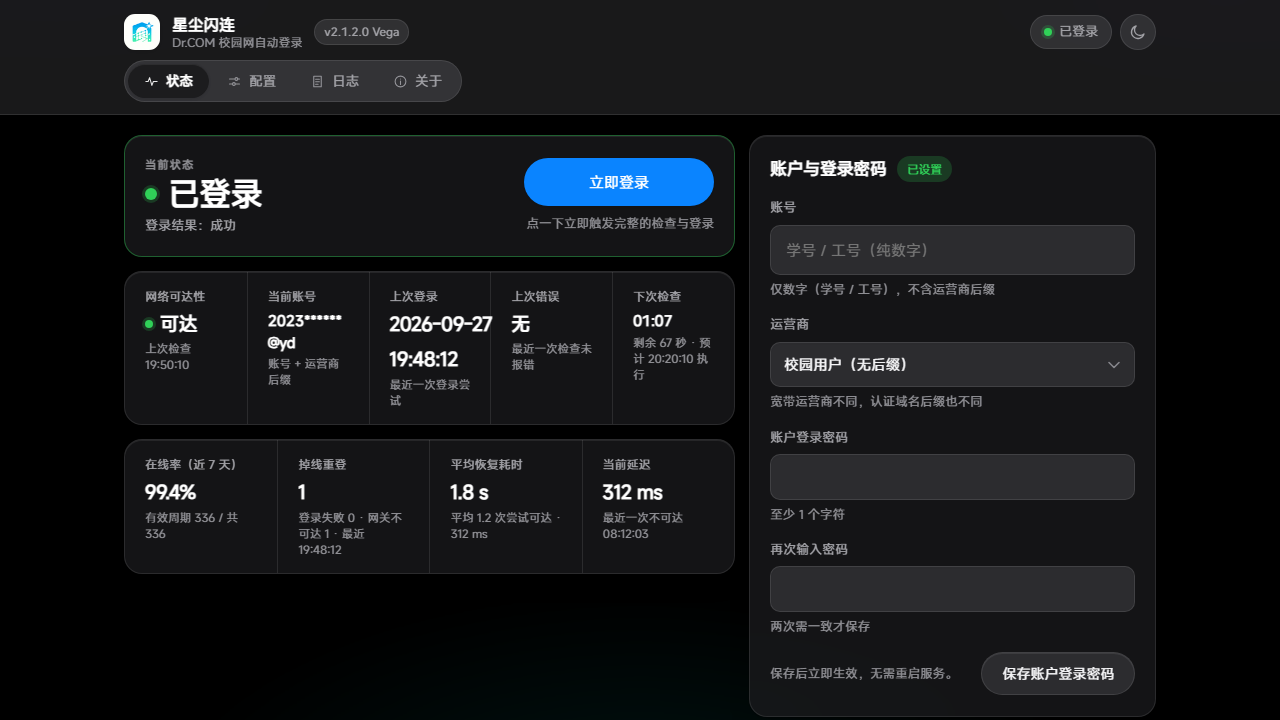
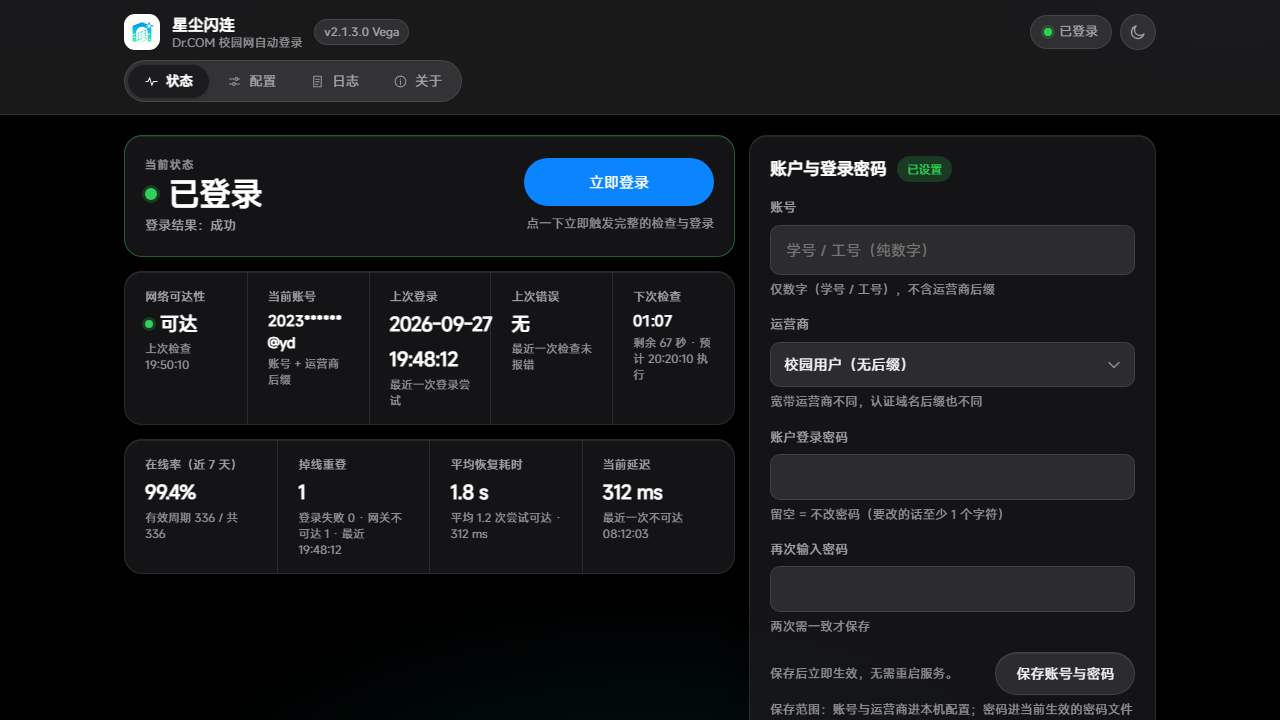
chore(release): v2.1.3.0 Vega 织女星 —— 多网络多账号（方案自己的账号与密码 + 切方案重载密码）
版本字面量同步（AGENTS §2 I2 / docs/VERSIONING.md §2 清单）：version.py、
packaging/setup.iss（头注释 + MyAppVersion）、install.bat（头注释 / banner / NSSM 服务描述）、
uninstall.bat（头注释 / banner）、packaging/build.ps1（头注释 / $AppVersionText）、
packaging/README.md（两处）、联网_service.py docstring、_smoke_static.py 的版本断言。

文档：
- CHANGELOG.md 新增 v2.1.3.0 段（多网络多账号 / 凭据卡能存账号了 / 其它修复 / 自检）；
- packaging/RELEASE-NOTES.md「本版变更」换成 v2.1.3.0，v2.1.2.0 整块降级成历史小节
  （三级标题降为四级），与 v2.1.1.0 那节并列；
- README.md：版本表行改 `v2.1.3.0 "Vega"`、构建产物示例改 2.1.3.0、版本史行改
  `v2.1.0.0 – v2.1.3.0（当前）` 并补一句本版摘要；顺手修掉「路径 B」里过时的
  「点『修改密码』设置密码」（这个按钮 v2.1.2.0 搬家后就没了 ✗）→ 改成
  「配置页填账号 / 运营商，密码在状态页那张卡里存」。

截图：按 AGENTS.md §6 用假数据渲染重拍 docs/screenshot-webui*.png（1280×720，亮 / 暗）——
版本徽章已是 v2.1.3.0 ✓、账号仍打码 ✓、「保存账号与密码」按钮完整露在折叠线以上 ✓。

自检：_smoke_static.py 389 项 ✓ / _smoke_http.py 45 项 ✓。

Changed region(s): [[0.5938, 0.9167, 0.9062, 1.0], [0.5938, 0.7028, 0.7812, 0.7333]]

diff --git a/联网_service.py b/联网_service.py
@@ -2,7 +2,7 @@
 import os, sys
 sys.path.insert(0, os.path.dirname(os.path.abspath(__file__)))
 """
-联网_service.py — 星尘闪连 (Stardust Flash Link) — Dr.COM 校园网自动登录（Web UI 配置版 v2.1.2.0）
+联网_service.py — 星尘闪连 (Stardust Flash Link) — Dr.COM 校园网自动登录（Web UI 配置版 v2.1.3.0）
 
 架构
     主线程：阻塞在 ThreadingHTTPServer 上，提供 Web UI 与 REST API。

diff --git a/version.py b/version.py
@@ -13,7 +13,7 @@
 `uninstall.bat`、`packaging/build.ps1`、README 与模块 docstring 里的版本必须同步。
 """
 
-VERSION = "2.1.2.0"
+VERSION = "2.1.3.0"
 
 # —— 版本线代号（MAJOR.MINOR 级别；换线必须换名）——
 # 主题：亮星名（中英对照），呼应「星尘闪连」。候选表见 docs/VERSIONING.md。

diff --git a/packaging/RELEASE-NOTES.md b/packaging/RELEASE-NOTES.md
@@ -2,11 +2,46 @@
 
 ## 本版变更
 
-> 🏷 本版是 **`2.1` 线**（`Vega` 织女星）的**界面重做版**：状态 / 配置 / 日志 / 关于四页的
-> 信息架构重新排过，「星尘风」成为默认主题，全站字体统一到 MiSans ✓。
+> 🏷 本版是 **`2.1` 线**（`Vega` 织女星）的**多网络多账号版**：同一个方案可以带自己的
+> 账号与密码，切方案时**连密码一起换** ✓；顺带修掉「状态页那张凭据卡存不了账号」的毛病 ✓。
 > 接口、配置结构、服务名、`AppId`、安装路径都没动 —— 老配置与升级路径不受影响 ✓。
 
-### 🎨 四页信息架构重做（本版重点）
+### 👤 ① 每个方案可以有自己的账号与密码（多网络多账号）
+- 以前方案能记住**账号与后缀**，但**密码只有一份**（公共 `password.txt`）——
+  「宿舍用移动账号、教学楼用校园账号」这种玩法，切完方案密码还是上一个 ✗。
+  现在方案可以带**自己的密码**：`password.<方案名>.txt`（一行密码）✓；
+- **配置页新增「选中方案的账号与密码」**：选好方案 → 填账号 / 运营商 / 该方案的密码 →
+  点「保存到选中方案」✓；想改回共用公共密码，勾上「删除该方案的专属密码」再保存 ✓；
+- **切方案连密码一起换**：密码以前只在**服务启动时**读过一次 —— 就算方案带了专属密码，
+  切完方案服务还在用旧密码，登录一路失败却「配置看着都对」✗。现在切方案后会重载密码 ✓
+  （重载失败只记一条日志、不算切换失败：配置已经切好了，不该因为读不出密码再回滚 ✓）；
+- 界面上看得见：方案下拉里带「专属密码」标记，编辑区上面写明「『宿舍』有专属密码文件
+  （`password.宿舍.txt`）」✓；**没设过专属密码的方案照旧用公共 `password.txt`** ✓
+  （老用户零迁移 ✓）；
+- 密码仍然**永不写进 `config.json`** ✓、不进诊断包 ✓、界面不回显 ✓。
+
+### 💾 ② 状态页那张凭据卡现在真的能存账号了（修复）
+- v2.1.2.0 把「账户与登录密码」从配置页搬到了状态页，但按钮沿用的还是老实现 ——
+  **只存密码**：账号和运营商在界面上能改，点「保存」却什么都没发生（看着像存上了 ✗）。
+  现在按钮叫「**保存账号与密码**」，一次存下账号 + 运营商 + 密码 ✓；
+- 存的姿势也修了：账号 / 运营商走**部分更新**（只改这两个键），
+  不会再把网关 / 端口 / 间隔 / 守卫设置一起重置回默认值 ✗；改某个方案同理走**合并**改 ✓；
+- 卡上写明保存范围：账号与运营商进本机配置，**密码永不写进配置文件** ✓（只进密码文件）。
+
+### 🔧 ③ 其它修复
+- 兜底异常处理里的日志调用换成模块自带日志：以前若 logger 没被注入，这里会先报
+  `NameError`、把真正的异常盖住 —— 客户端只看到「连接被重置」，服务端一条线索都没有 ✗；
+- 改的若正是**当前方案**，保存凭据后会自动重新应用一次 → 状态页立刻显示新账号 ✓。
+
+---
+
+### 🎨 v2.1.2.0：界面重做（四页信息架构 + 星尘风默认主题）
+
+> 🏷 那是 `2.1` 线的**界面重做版**：状态 / 配置 / 日志 / 关于四页的信息架构重新排过，
+> 「星尘风」成为默认主题，全站字体统一到 MiSans ✓。
+> 接口、配置结构、服务名、`AppId`、安装路径都没动 —— 老配置与升级路径不受影响 ✓。
+
+#### 🎨 四页信息架构重做（本版重点）
 - **状态页**：状态与「立即登录」合成一张卡；下面两条统计条 —— 日常 5 格
   （网络可达性 / 当前账号 / 上次登录 / 上次错误 / 下次检查）+ 诊断 4 格
   （在线率 / 掉线重登 / 平均恢复耗时 / 当前延迟）；右栏是「账户与登录密码」。
@@ -18,16 +53,16 @@
 - **关于页**：版本 / 运行时长 → **更新**（结论条 + 立即检查 / 立即升级 / 查看升级历史 +
   升级流水 + 折叠的「升级设置（进阶）」）→ 数据与文件位置 → 服务与维护 ✓。
 
-### 🌟 新默认主题「星尘风」+ 全站字体统一
+#### 🌟 新默认主题「星尘风」+ 全站字体统一
 - 右上角一键**三态循环**：星尘（新默认）→ 亮色 → 暗色；老主题不受影响 ✓。
 - 字体统一到 **MiSans**（本机装了就用，没装自动退回系统字体栈 —— 不挑电脑、不缺字）✓。
 
-### 🧹 界面瘦身
+#### 🧹 界面瘦身
 - 撤掉界面上那些「实现说明」：顶栏的监听 / 数据位置提示条、诊断指标的数据来源脚注、
   凭据说明段；「关于」页的安装方式判据改到**徽标悬停提示**上（想核对时鼠标停一下就有）✓。
 - 删掉「连接质量」柱图板块（4 项诊断指标已经常显在状态页）✓。
 
-### 🔧 排版修复
+#### 🔧 排版修复
 - 长路径只在目录分隔符后换行，不再断出「…config.js / on」这种半截文件名 ✓；
 - 统计条里的日期不再折成三行（最多两行：日期 / 时间）✓；
 - 卡片间距统一到一套令牌，各页左右边界与行距对齐 ✓；

diff --git a/CHANGELOG.md b/CHANGELOG.md
@@ -5,6 +5,47 @@
 格式参考 [Keep a Changelog](https://keepachangelog.com/zh-CN/1.1.0/)，
 本项目遵循 [语义化版本](https://semver.org/lang/zh-CN/) 规范。
 
+## v2.1.3.0 (feature) — 2026-09-29 · 代号 `Vega`（织女星）
+
+> 主题：**多网络多账号** —— 这台电脑换到另一个网络（宿舍 ↔ 教学楼），账号和密码能不能跟着换。
+> 顺带修掉一个一直没被发现的毛病：状态页那张凭据卡**存不了账号**。
+> 接口、配置结构、服务名、`AppId`、安装路径**都没动** ✓ —— 老配置与升级路径不受影响。
+
+### 👤 ① 每个方案可以有自己的账号与密码（多网络多账号）
+- 以前方案能记住**账号与后缀**，但**密码只有一份**（公共 `password.txt`）——
+  「宿舍用移动账号、教学楼用校园账号 + 无尾缀」这类玩法，切完方案密码还是上一个 ✗。
+  现在方案可以带**自己的密码**：`password.<方案名>.txt`（一行密码）✓；
+- **配置页新增「选中方案的账号与密码」**：选好方案 → 填账号 / 运营商 / 该方案的密码 →
+  点「保存到选中方案」✓；想改回共用公共密码，勾上「删除该方案的专属密码」再保存 ✓；
+- **切方案连密码一起换**：切完立刻重载密码文件 —— 这是以前最要命的缺口：
+  密码只在**服务启动时**读过一次，就算方案带了专属密码，切完方案服务还在用旧密码，
+  登录一路失败却「配置看着都对」✗。现在 `activate()` 之后会重载密码 ✓
+  （重载失败只记一条日志、**不算**切换失败 —— 配置已经切好了，不该因为读不出密码再回滚 ✓）；
+- 界面会明说：方案下拉里带「专属密码」标记，编辑区上面写「『宿舍』有专属密码文件
+  （`password.宿舍.txt`）」✓；
+- **老用户零迁移** ✓：没设过专属密码的方案照旧用公共 `password.txt`；密码仍然
+  **永不写进 `config.json`** ✓、不进诊断包 ✓、界面不回显 ✓。
+
+### 💾 ② 状态页那张凭据卡现在能存账号了（修复）
+- v2.1.2.0 把「账户与登录密码」从配置页搬到了状态页，但按钮沿用的还是老实现 ——
+  **只 POST 密码**：账号和运营商在界面上能改，点「保存」却什么都没发生（看着像存上了 ✗）。
+  现在按钮叫「**保存账号与密码**」，一次存三样 ✓；
+- 存的姿势也修了：账号 / 运营商走**部分更新**（只改这两个键），
+  不会再把网关 / 端口 / 间隔 / 守卫设置一起重置回默认值 ✗；改某个方案同理走**合并**改 ✓；
+- 卡上写明保存范围：账号与运营商进本机配置，**密码永不写进配置文件** ✓（只进密码文件）。
+
+### 🔧 ③ 其它修复
+- `do_POST` 兜底异常处理里的 `logger.exception` 换成模块自带日志：以前若 logger 没被注入，
+  这里会先 `NameError`，把真正的异常盖住 —— 客户端只看到「连接被重置」，服务端一条线索都没有 ✗；
+- 改的若正是**当前方案**，保存凭据后会自动重新应用一次 → 状态页立刻显示新账号 ✓。
+
+### 🧪 自检
+- 静态 `_smoke_static.py` **389 项** ✓（新增 18 项：合并语义 / 深拷贝 / 方案不存在报错 /
+  专属密码真文件往返 / 第一次建专属密码立即生效 / 切方案重载 / 重载异常不阻断切换 / 页面结构）；
+- HTTP `_smoke_http.py` **45 项** ✓（新增 18 项：current 部分更新不重置其它键、
+  profile 合并不抹网关 / 间隔、密码只进密码文件、给别的方案存密码不动当前、
+  方案不存在 → 400、坏输入全 400）。
+
 ## v2.1.2.0 (feature) — 2026-09-29 · 代号 `Vega`（织女星）
 
 > 主题：**把界面重做一遍** —— 不是换配色，是重新回答「每一页给谁看、先看什么」。

diff --git a/packaging/README.md b/packaging/README.md
@@ -6,7 +6,7 @@
 
 1. 双击运行 `build.bat`
 2. 等待脚本完成（首次会下载 Inno Setup 6 与 NSSM）
-3. 构建产物：`output\StardustFlashLink-Setup-v{版本}.exe`（例：当前版本 `v2.1.2.0` → `output\StardustFlashLink-Setup-v2.1.2.0.exe`）
+3. 构建产物：`output\StardustFlashLink-Setup-v{版本}.exe`（例：当前版本 `v2.1.3.0` → `output\StardustFlashLink-Setup-v2.1.3.0.exe`）
 
 `build.bat` 步骤：
 - 自提升为管理员
@@ -18,7 +18,7 @@
 
 ## 终端用户：安装 / 卸载
 
-**安装**：双击 `StardustFlashLink-Setup-v{版本}.exe`（当前版本 `v2.1.2.0 "Vega"`），按向导提示操作。
+**安装**：双击 `StardustFlashLink-Setup-v{版本}.exe`（当前版本 `v2.1.3.0 "Vega"`），按向导提示操作。
 - 默认安装到 `C:\Program Files\DrcomAutoLogin\`
 - 自动注册 Windows 服务 `DrcomAutoLogin`
 - 启动 Web UI: 访问 `http://127.0.0.1:8848`
